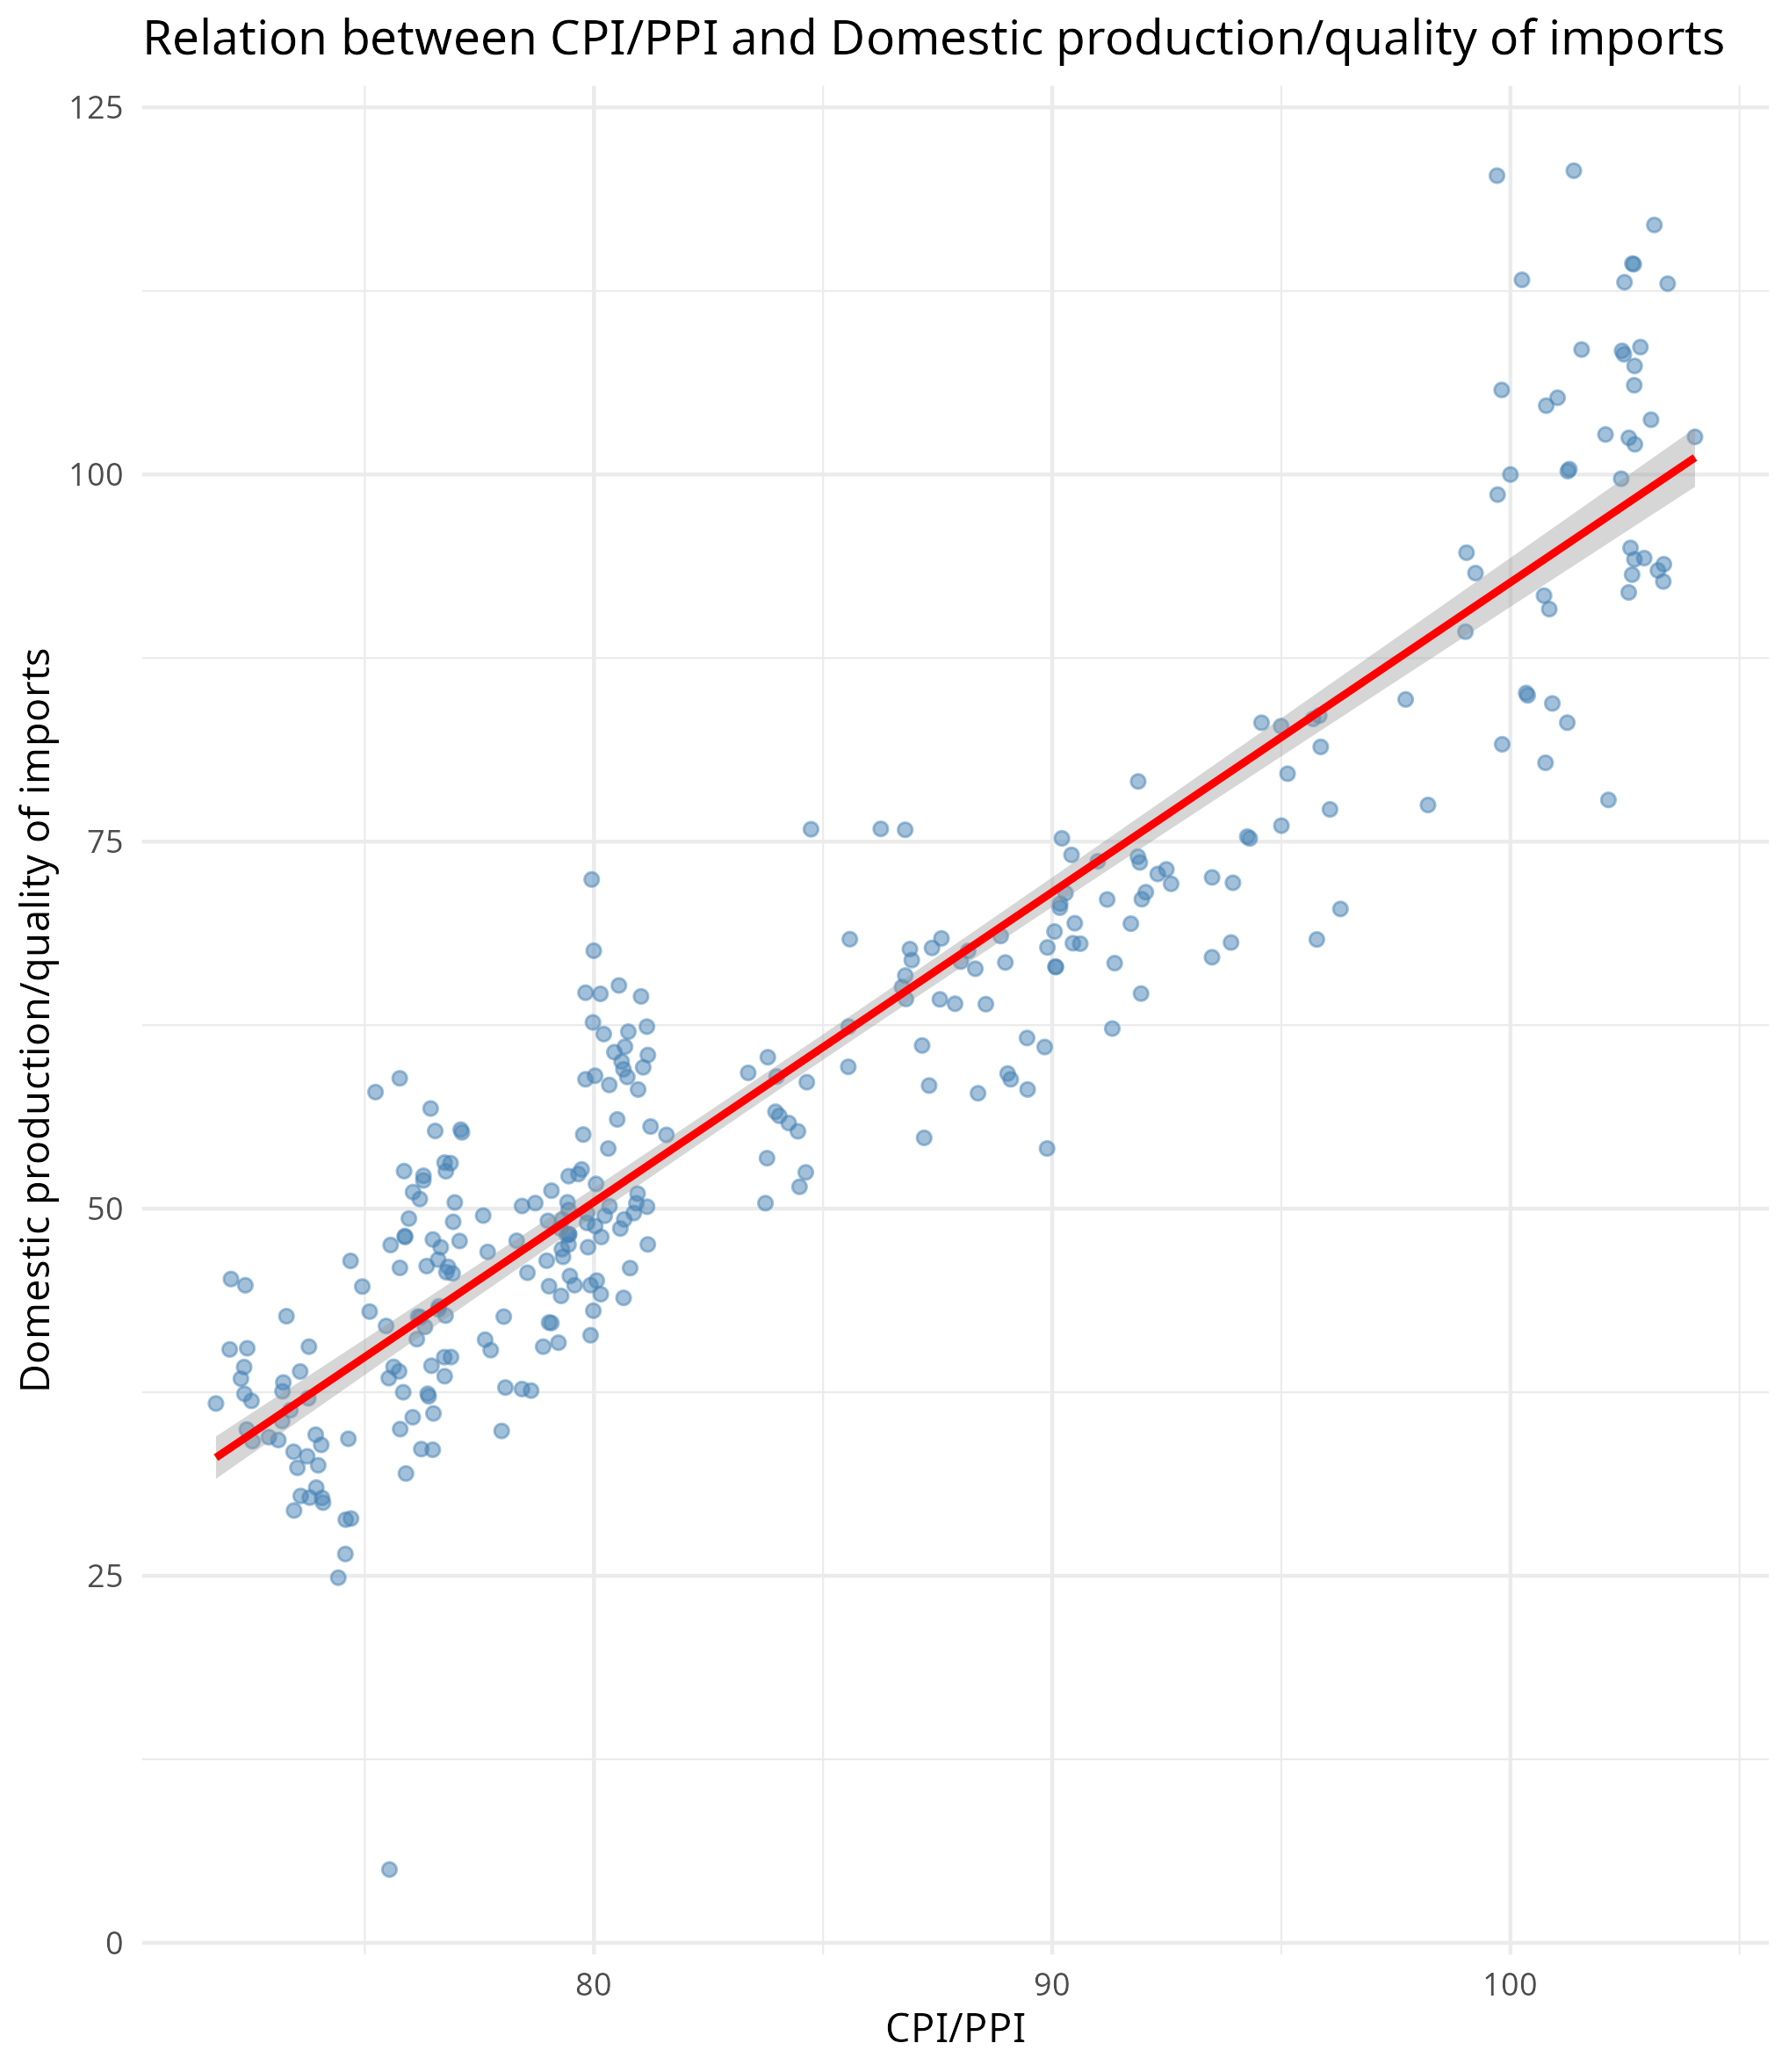
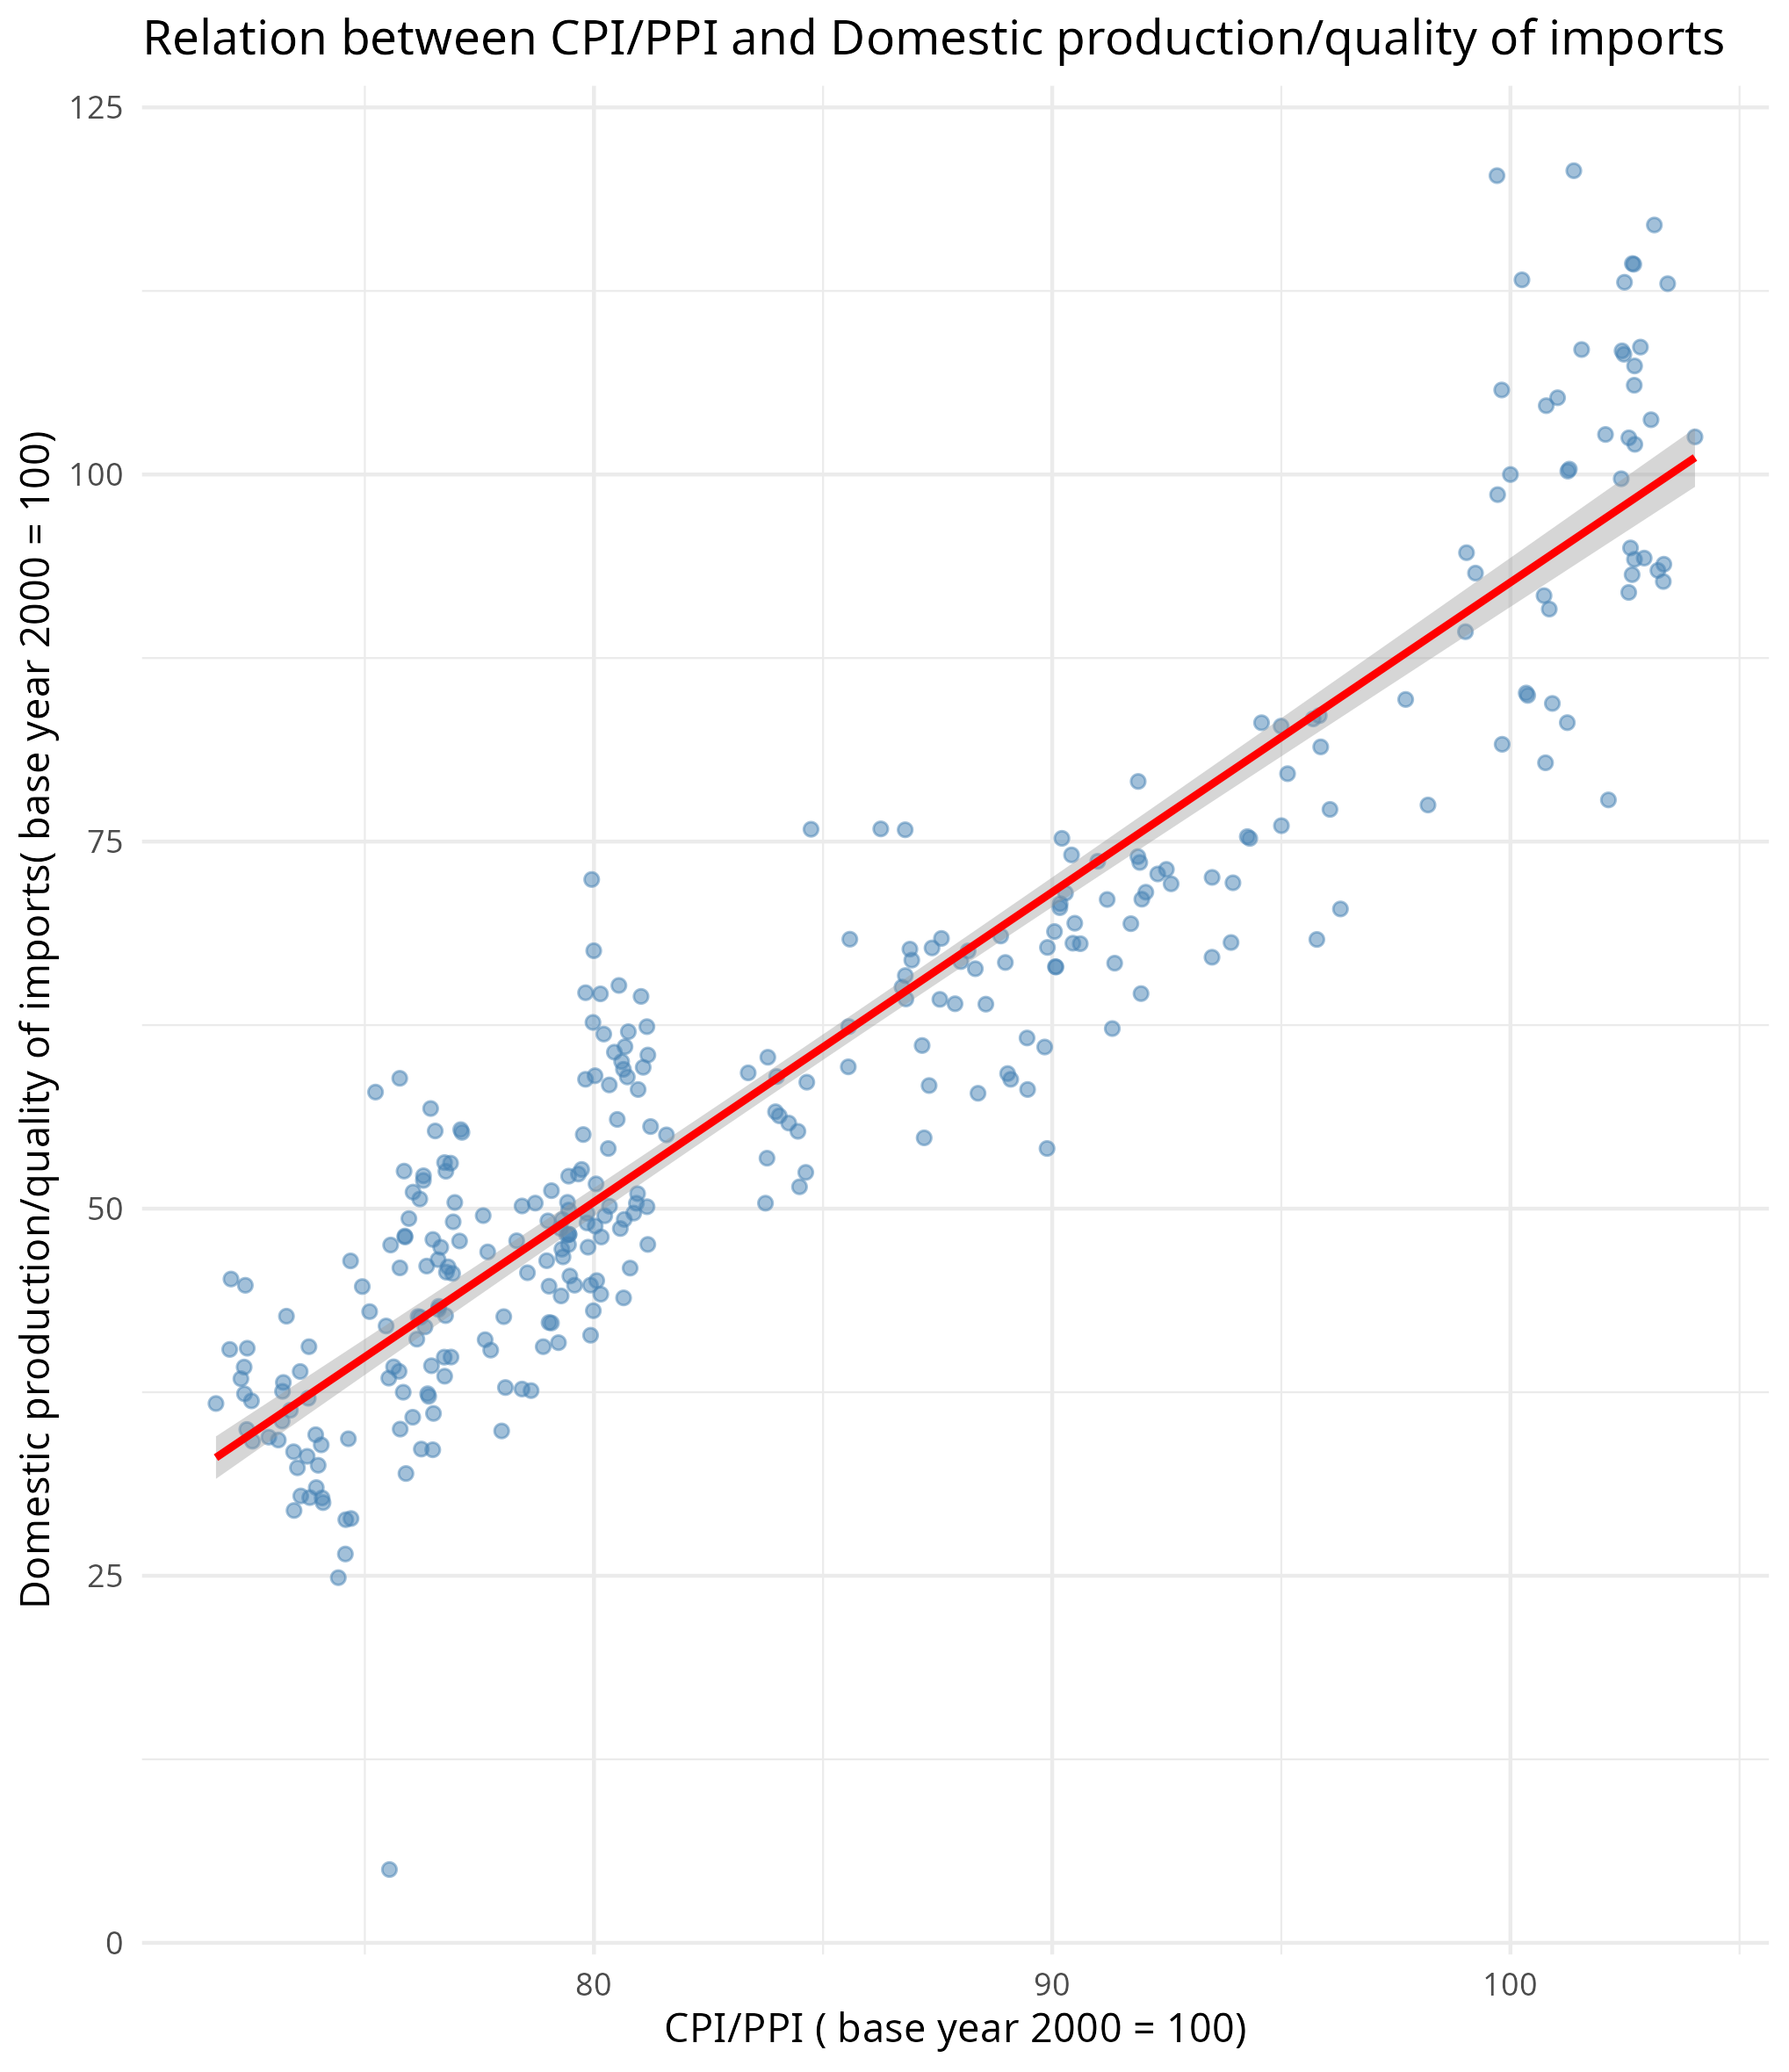
rewrote ending of introduction

Changed region(s): [[0.0, 0.2166, 0.0309, 0.7736], [0.3711, 0.9593, 0.6186, 0.9903], [0.6495, 0.9593, 0.6804, 0.9903]]

diff --git a/report.tex b/report.tex
@@ -20,8 +20,8 @@ For a long time tires were a boring business that grew bellow GDP levels and gen
 Managements of carbon black manufacturer Orion S.A. and Cabot explained in their quarterly conferences that reason for having pricing pressure and negative revenue growth was primarily from 2022 supply shock when consumers started prioritizing less quality tires imported from southeast Asia in order to cut costs. Imports from Southeast Asia have  increased in 2025 to a point that 70\% of tires sold in USA are foreign made (in comparison to 50\% in prepandemic era).
 
 In conclusion US domestic tire industry could be suffering from overseas competition due to pricing pressure. The project will try to find whether higher domestic prices leads to higher share of foreign made tires in US. 
-Our empirical claims is that a) domestic tires have increased in price compared to foreign made price and this leads to consumer preferring foreign made tires.
-Whether increases in domestic prices relative to imported prices of tires
+Our empirical claims is that domestic tires have increased in price compared to foreign made tires and this leads to consumer preferring the foreign ones.
+
 
 \subsection*{Sources of data}
 Thankfully US has agencies that report data about tires monthly. Here is the list of all data sources for the study.